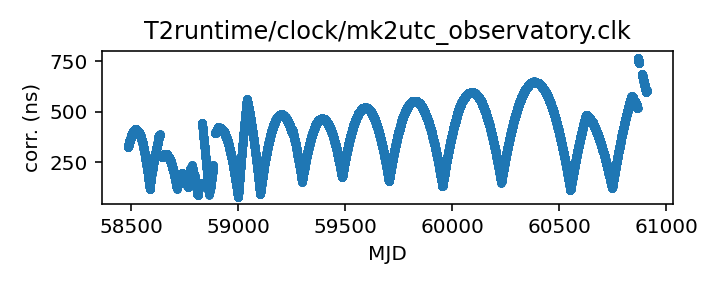
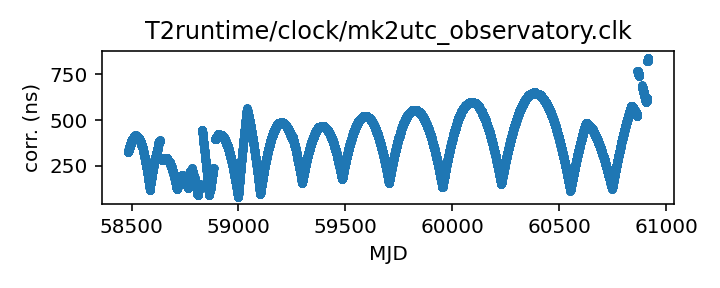
Routine gh-pages update from Github action Mon Sep  8 20:41:05 UTC 2025

diff --git a/status.md b/status.md
@@ -13,18 +13,18 @@ name of each clock file links to a page with more details.
 
 | Name | File | Corrections start | Corrections end | Last check date | Last check result 
 |:--- |:--- | --- | --- | --- |:--- 
-| [GPS to UTC](T2runtime/clock/gps2utc.clk.html) | `T2runtime/clock/gps2utc.clk` | 1993-01-01 MJD 48988.0 | 2025-07-28 MJD 60884.0 | 2025-09-07 | Unchanged 
-| [GPS to UTC (Combined Clock)](T2runtime/clock/gps2utc_cc.clk.html) | `T2runtime/clock/gps2utc_cc.clk` | 1993-01-01 MJD 48988.0 | 2025-07-28 MJD 60884.0 | 2025-09-07 | Unchanged 
-| [GPS to UTC (Corrected)](T2runtime/clock/gps2utc_c0p.clk.html) | `T2runtime/clock/gps2utc_c0p.clk` | 2010-12-29 MJD 55559.0 | 2025-07-28 MJD 60884.0 | 2025-09-07 | Unchanged 
-| [GBT](tempo/clock/time_gbt.dat.html) | `tempo/clock/time_gbt.dat` | 2000-12-31 MJD 51909.5 | 2025-09-06 MJD 60924.5 | 2025-09-07 | Updated 
-| [GBT (TEMPO2 converted from TEMPO)](T2runtime/clock/gbt2gps.clk.html) | `T2runtime/clock/gbt2gps.clk` | 2000-12-31 MJD 51909.5 | 2024-05-18 MJD 60448.5 | 2025-09-07 | **Validation failed** 
-| [Jodrell Bank](T2runtime/clock/jb2gps.clk.html) | `T2runtime/clock/jb2gps.clk` | 2006-10-13 MJD 54021.4 | 2024-11-07 MJD 60621.0 | 2025-09-01 | Unchanged 
-| [Jodrell Bank Roach](T2runtime/clock/jbroach2jb.clk.html) | `T2runtime/clock/jbroach2jb.clk` | 2006-10-13 MJD 54021.4 | 2018-03-20 MJD 58197.6 | 2025-09-01 | Unchanged 
-| [Jodrell Bank DFB](T2runtime/clock/jbdfb2jb.clk.html) | `T2runtime/clock/jbdfb2jb.clk` | 2006-10-13 MJD 54021.4 | 2021-02-22 MJD 59268.0 | 2025-09-01 | Unchanged 
-| [Meerkat (observatory)](T2runtime/clock/mk2utc_observatory.clk.html) | `T2runtime/clock/mk2utc_observatory.clk` | 2019-01-01 MJD 58484.0 | 2025-08-20 MJD 60908.0 | 2025-09-01 | Updated 
-| [Leap seconds](tempo/clock/leap.sec.html) | `tempo/clock/leap.sec` | 1972-07-01 MJD 41499.0 | 2017-01-01 MJD 57754.0 | 2025-09-07 | Unchanged 
-| [UT1 table](tempo/clock/ut1.dat.html) | `tempo/clock/ut1.dat` | 1973-01-02 MJD 41684.0 | 2026-09-12 MJD 61295.0 | 2025-09-07 | Unchanged 
-| [UT1 table](T2runtime/clock/ut1.dat.html) | `T2runtime/clock/ut1.dat` | 1973-01-02 MJD 41684.0 | 2026-09-12 MJD 61295.0 | 2025-09-07 | Unchanged 
+| [GPS to UTC](T2runtime/clock/gps2utc.clk.html) | `T2runtime/clock/gps2utc.clk` | 1993-01-01 MJD 48988.0 | 2025-07-28 MJD 60884.0 | 2025-09-08 | Unchanged 
+| [GPS to UTC (Combined Clock)](T2runtime/clock/gps2utc_cc.clk.html) | `T2runtime/clock/gps2utc_cc.clk` | 1993-01-01 MJD 48988.0 | 2025-07-28 MJD 60884.0 | 2025-09-08 | Unchanged 
+| [GPS to UTC (Corrected)](T2runtime/clock/gps2utc_c0p.clk.html) | `T2runtime/clock/gps2utc_c0p.clk` | 2010-12-29 MJD 55559.0 | 2025-07-28 MJD 60884.0 | 2025-09-08 | Unchanged 
+| [GBT](tempo/clock/time_gbt.dat.html) | `tempo/clock/time_gbt.dat` | 2000-12-31 MJD 51909.5 | 2025-09-07 MJD 60925.5 | 2025-09-08 | Updated 
+| [GBT (TEMPO2 converted from TEMPO)](T2runtime/clock/gbt2gps.clk.html) | `T2runtime/clock/gbt2gps.clk` | 2000-12-31 MJD 51909.5 | 2024-05-18 MJD 60448.5 | 2025-09-08 | **Validation failed** 
+| [Jodrell Bank](T2runtime/clock/jb2gps.clk.html) | `T2runtime/clock/jb2gps.clk` | 2006-10-13 MJD 54021.4 | 2024-11-07 MJD 60621.0 | 2025-09-08 | Unchanged 
+| [Jodrell Bank Roach](T2runtime/clock/jbroach2jb.clk.html) | `T2runtime/clock/jbroach2jb.clk` | 2006-10-13 MJD 54021.4 | 2018-03-20 MJD 58197.6 | 2025-09-08 | Unchanged 
+| [Jodrell Bank DFB](T2runtime/clock/jbdfb2jb.clk.html) | `T2runtime/clock/jbdfb2jb.clk` | 2006-10-13 MJD 54021.4 | 2021-02-22 MJD 59268.0 | 2025-09-08 | Unchanged 
+| [Meerkat (observatory)](T2runtime/clock/mk2utc_observatory.clk.html) | `T2runtime/clock/mk2utc_observatory.clk` | 2019-01-01 MJD 58484.0 | 2025-08-29 MJD 60917.0 | 2025-09-08 | Updated 
+| [Leap seconds](tempo/clock/leap.sec.html) | `tempo/clock/leap.sec` | 1972-07-01 MJD 41499.0 | 2017-01-01 MJD 57754.0 | 2025-09-08 | Unchanged 
+| [UT1 table](tempo/clock/ut1.dat.html) | `tempo/clock/ut1.dat` | 1973-01-02 MJD 41684.0 | 2026-09-12 MJD 61295.0 | 2025-09-08 | Unchanged 
+| [UT1 table](T2runtime/clock/ut1.dat.html) | `T2runtime/clock/ut1.dat` | 1973-01-02 MJD 41684.0 | 2026-09-12 MJD 61295.0 | 2025-09-08 | Unchanged 
 
 
 
@@ -68,26 +68,26 @@ name of each clock file links to a page with more details.
 
 | Name | File | Corrections start | Corrections end | Last check date | Last check result 
 |:--- |:--- | --- | --- | --- |:--- 
-| [GPS to UTC (TEMPO2)](T2runtime/clock/gpst2utc_tempo2.clk.html) | `T2runtime/clock/gpst2utc_tempo2.clk` | 1993-01-01 MJD 48988.0 | 2024-12-30 MJD 60674.0 | 2025-09-01 | Unchanged 
-| [GBT (TEMPO2)](T2runtime/clock/gbt2gps_tempo2.clk.html) | `T2runtime/clock/gbt2gps_tempo2.clk` | 2000-12-31 MJD 51909.5 | 2020-02-25 MJD 58904.5 | 2025-09-01 | Unchanged 
-| [Jodrell Bank (TEMPO)](tempo/clock/time_jb.dat.html) | `tempo/clock/time_jb.dat` | 2006-10-13 MJD 54021.4 | 2019-05-13 MJD 58616.2 | 2025-09-01 | Unchanged 
-| [VLA](tempo/clock/time_vla.dat.html) | `tempo/clock/time_vla.dat` | 1990-10-27 MJD 48191.2 | 2025-02-10 MJD 60716.2 | 2025-09-01 | Unchanged 
-| [VLA (TEMPO2)](T2runtime/clock/vla2gps.clk.html) | `T2runtime/clock/vla2gps.clk` | 2015-02-01 MJD 57054.6 | 2025-02-10 MJD 60716.2 | 2025-09-01 | Unchanged 
-| [VLA to NIST](T2runtime/clock/vla2nist.clk.html) | `T2runtime/clock/vla2nist.clk` | 1990-10-27 MJD 48191.2 | 1993-11-13 MJD 49304.0 | 2025-09-01 | Unchanged 
-| [FAST](tempo/clock/time_fast.dat.html) | `tempo/clock/time_fast.dat` | 2017-07-27 MJD 57961.0 | 2025-08-25 MJD 60913.0 | 2025-09-01 | Updated 
-| [WSRT](T2runtime/clock/wsrt2gps.clk.html) | `T2runtime/clock/wsrt2gps.clk` | 1999-01-01 MJD 51179.5 | 2015-06-29 MJD 57202.1 | 2025-09-01 | Unchanged 
-| [WSRT (TEMPO)](tempo/clock/time_wsrt.dat.html) | `tempo/clock/time_wsrt.dat` | 1987-07-24 MJD 47000.0 | 2007-12-24 MJD 54458.0 | 2025-09-01 | **Validation failed** 
-| [Parkes](T2runtime/clock/pks2gps.clk.html) | `T2runtime/clock/pks2gps.clk` | 1858-11-17 MJD 0.0 | 2025-06-30 MJD 60856.1 | 2025-09-01 | Unchanged 
-| [Parkes (TEMPO)](tempo/clock/time_pks.dat.html) | `tempo/clock/time_pks.dat` | 1979-05-07 MJD 44000.0 | 2011-07-03 MJD 55745.8 | 2025-09-01 | Unchanged 
-| [SRT](T2runtime/clock/srt2gps.clk.html) | `T2runtime/clock/srt2gps.clk` | 2013-03-20 MJD 56371.0 | 2019-12-11 MJD 58828.0 | 2025-09-01 | Unchanged 
-| [Effelsberg](T2runtime/clock/eff2gps.clk.html) | `T2runtime/clock/eff2gps.clk` | 1993-11-29 MJD 49320.0 | 2015-06-22 MJD 57195.5 | 2025-09-01 | Unchanged 
-| [Effelsberg Asterix/PSRix](T2runtime/clock/effix2gps.clk.html) | `T2runtime/clock/effix2gps.clk` | 2011-01-01 MJD 55562.5 | 2021-03-21 MJD 59294.5 | 2025-09-01 | Unchanged 
-| [LEAP](T2runtime/clock/leap2effix.clk.html) | `T2runtime/clock/leap2effix.clk` | 2012-10-29 MJD 56230.0 | 2014-03-04 MJD 56720.0 | 2025-09-01 | Unchanged 
-| [NUPPI](tempo/clock/time_nuppi.dat.html) | `tempo/clock/time_nuppi.dat` | 2005-03-07 MJD 53436.0 | 2015-11-08 MJD 57334.6 | 2025-09-01 | Unchanged 
-| [Meerkat (TEMPO2)](T2runtime/clock/mk2utc.clk.html) | `T2runtime/clock/mk2utc.clk` | 2019-01-01 MJD 58484.0 | 2024-09-23 MJD 60576.9 | 2025-09-01 | **Validation failed** 
-| [MOST](T2runtime/clock/mo2gps.clk.html) | `T2runtime/clock/mo2gps.clk` | 2003-12-27 MJD 53000.0 | 2018-09-06 MJD 58367.0 | 2025-09-01 | Unchanged 
-| [Nancay to obspm](T2runtime/clock/ncyobs2obspm.clk.html) | `T2runtime/clock/ncyobs2obspm.clk` | 1988-05-18 MJD 47299.6 | 2024-12-30 MJD 60674.0 | 2025-09-01 | Unchanged 
-| [obspm](T2runtime/clock/obspm2gps.clk.html) | `T2runtime/clock/obspm2gps.clk` | 2003-12-01 MJD 52974.0 | 2023-10-27 MJD 60244.0 | 2025-09-01 | Unchanged 
+| [GPS to UTC (TEMPO2)](T2runtime/clock/gpst2utc_tempo2.clk.html) | `T2runtime/clock/gpst2utc_tempo2.clk` | 1993-01-01 MJD 48988.0 | 2024-12-30 MJD 60674.0 | 2025-09-08 | Unchanged 
+| [GBT (TEMPO2)](T2runtime/clock/gbt2gps_tempo2.clk.html) | `T2runtime/clock/gbt2gps_tempo2.clk` | 2000-12-31 MJD 51909.5 | 2020-02-25 MJD 58904.5 | 2025-09-08 | Unchanged 
+| [Jodrell Bank (TEMPO)](tempo/clock/time_jb.dat.html) | `tempo/clock/time_jb.dat` | 2006-10-13 MJD 54021.4 | 2019-05-13 MJD 58616.2 | 2025-09-08 | Unchanged 
+| [VLA](tempo/clock/time_vla.dat.html) | `tempo/clock/time_vla.dat` | 1990-10-27 MJD 48191.2 | 2025-02-10 MJD 60716.2 | 2025-09-08 | Unchanged 
+| [VLA (TEMPO2)](T2runtime/clock/vla2gps.clk.html) | `T2runtime/clock/vla2gps.clk` | 2015-02-01 MJD 57054.6 | 2025-02-10 MJD 60716.2 | 2025-09-08 | Unchanged 
+| [VLA to NIST](T2runtime/clock/vla2nist.clk.html) | `T2runtime/clock/vla2nist.clk` | 1990-10-27 MJD 48191.2 | 1993-11-13 MJD 49304.0 | 2025-09-08 | Unchanged 
+| [FAST](tempo/clock/time_fast.dat.html) | `tempo/clock/time_fast.dat` | 2017-07-27 MJD 57961.0 | 2025-08-25 MJD 60913.0 | 2025-09-08 | Unchanged 
+| [WSRT](T2runtime/clock/wsrt2gps.clk.html) | `T2runtime/clock/wsrt2gps.clk` | 1999-01-01 MJD 51179.5 | 2015-06-29 MJD 57202.1 | 2025-09-08 | Unchanged 
+| [WSRT (TEMPO)](tempo/clock/time_wsrt.dat.html) | `tempo/clock/time_wsrt.dat` | 1987-07-24 MJD 47000.0 | 2007-12-24 MJD 54458.0 | 2025-09-08 | **Validation failed** 
+| [Parkes](T2runtime/clock/pks2gps.clk.html) | `T2runtime/clock/pks2gps.clk` | 1858-11-17 MJD 0.0 | 2025-06-30 MJD 60856.1 | 2025-09-08 | Unchanged 
+| [Parkes (TEMPO)](tempo/clock/time_pks.dat.html) | `tempo/clock/time_pks.dat` | 1979-05-07 MJD 44000.0 | 2011-07-03 MJD 55745.8 | 2025-09-08 | Unchanged 
+| [SRT](T2runtime/clock/srt2gps.clk.html) | `T2runtime/clock/srt2gps.clk` | 2013-03-20 MJD 56371.0 | 2019-12-11 MJD 58828.0 | 2025-09-08 | Unchanged 
+| [Effelsberg](T2runtime/clock/eff2gps.clk.html) | `T2runtime/clock/eff2gps.clk` | 1993-11-29 MJD 49320.0 | 2015-06-22 MJD 57195.5 | 2025-09-08 | Unchanged 
+| [Effelsberg Asterix/PSRix](T2runtime/clock/effix2gps.clk.html) | `T2runtime/clock/effix2gps.clk` | 2011-01-01 MJD 55562.5 | 2021-03-21 MJD 59294.5 | 2025-09-08 | Unchanged 
+| [LEAP](T2runtime/clock/leap2effix.clk.html) | `T2runtime/clock/leap2effix.clk` | 2012-10-29 MJD 56230.0 | 2014-03-04 MJD 56720.0 | 2025-09-08 | Unchanged 
+| [NUPPI](tempo/clock/time_nuppi.dat.html) | `tempo/clock/time_nuppi.dat` | 2005-03-07 MJD 53436.0 | 2015-11-08 MJD 57334.6 | 2025-09-08 | Unchanged 
+| [Meerkat (TEMPO2)](T2runtime/clock/mk2utc.clk.html) | `T2runtime/clock/mk2utc.clk` | 2019-01-01 MJD 58484.0 | 2024-09-23 MJD 60576.9 | 2025-09-08 | **Validation failed** 
+| [MOST](T2runtime/clock/mo2gps.clk.html) | `T2runtime/clock/mo2gps.clk` | 2003-12-27 MJD 53000.0 | 2018-09-06 MJD 58367.0 | 2025-09-08 | Unchanged 
+| [Nancay to obspm](T2runtime/clock/ncyobs2obspm.clk.html) | `T2runtime/clock/ncyobs2obspm.clk` | 1988-05-18 MJD 47299.6 | 2024-12-30 MJD 60674.0 | 2025-09-08 | Unchanged 
+| [obspm](T2runtime/clock/obspm2gps.clk.html) | `T2runtime/clock/obspm2gps.clk` | 2003-12-01 MJD 52974.0 | 2023-10-27 MJD 60244.0 | 2025-09-08 | Unchanged 
 
 
 ### Further information:

diff --git a/T2runtime/clock/gbt2gps.clk.md b/T2runtime/clock/gbt2gps.clk.md
@@ -25,12 +25,11 @@ If questions arise about the conversion, contact Anne Archibald
 | Clock file start | 2000-12-31 MJD 51909.5 |
 | Clock file end | 2024-05-18 MJD 60448.5 |
 | Update interval (days) | 1 |
-| Last update attempt | 2025-09-07 |
+| Last update attempt | 2025-09-08 |
 | Last update result | Validation failed |
 
 Log entries from the last few update attempts:
 ```
-2025-08-29 20:38:42.736 - Validation failed: New version of T2runtime/clock/gbt2gps.clk MJDs differ from old version where they overlap in 8407 places
 2025-08-30 20:37:07.543 - Validation failed: New version of T2runtime/clock/gbt2gps.clk MJDs differ from old version where they overlap in 8407 places
 2025-08-31 20:38:03.864 - Validation failed: New version of T2runtime/clock/gbt2gps.clk MJDs differ from old version where they overlap in 8407 places
 2025-09-01 20:38:16.249 - Validation failed: New version of T2runtime/clock/gbt2gps.clk MJDs differ from old version where they overlap in 8407 places
@@ -40,6 +39,7 @@ Log entries from the last few update attempts:
 2025-09-05 20:39:54.639 - Validation failed: New version of T2runtime/clock/gbt2gps.clk MJDs differ from old version where they overlap in 8407 places
 2025-09-06 20:34:58.186 - Validation failed: New version of T2runtime/clock/gbt2gps.clk MJDs differ from old version where they overlap in 8407 places
 2025-09-07 20:35:51.326 - Validation failed: New version of T2runtime/clock/gbt2gps.clk MJDs differ from old version where they overlap in 8407 places
+2025-09-08 20:40:26.109 - Validation failed: New version of T2runtime/clock/gbt2gps.clk MJDs differ from old version where they overlap in 8407 places
 ```
 [Full log](https://raw.githubusercontent.com/ipta/pulsar-clock-corrections/main/log/T2runtime/clock/gbt2gps.clk.log)
 

diff --git a/T2runtime/clock/mk2utc.clk.md b/T2runtime/clock/mk2utc.clk.md
@@ -17,12 +17,11 @@ up-to-date.
 | Clock file start | 2019-01-01 MJD 58484.0 |
 | Clock file end | 2024-09-23 MJD 60576.9 |
 | Update interval (days) | 7 |
-| Last update attempt | 2025-09-01 |
+| Last update attempt | 2025-09-08 |
 | Last update result | Validation failed |
 
 Log entries from the last few update attempts:
 ```
-2025-06-30 20:43:41.583 - Validation failed: New version of T2runtime/clock/mk2utc.clk MJDs differ from old version where they overlap in 8252 places
 2025-07-07 20:44:48.573 - Validation failed: New version of T2runtime/clock/mk2utc.clk MJDs differ from old version where they overlap in 8252 places
 2025-07-14 20:45:04.104 - Validation failed: New version of T2runtime/clock/mk2utc.clk MJDs differ from old version where they overlap in 8252 places
 2025-07-21 20:45:52.104 - Validation failed: New version of T2runtime/clock/mk2utc.clk MJDs differ from old version where they overlap in 8252 places
@@ -32,6 +31,7 @@ Log entries from the last few update attempts:
 2025-08-18 20:41:43.006 - Validation failed: New version of T2runtime/clock/mk2utc.clk MJDs differ from old version where they overlap in 8252 places
 2025-08-25 20:42:36.637 - Validation failed: New version of T2runtime/clock/mk2utc.clk MJDs differ from old version where they overlap in 8252 places
 2025-09-01 20:38:36.267 - Validation failed: New version of T2runtime/clock/mk2utc.clk MJDs differ from old version where they overlap in 8252 places
+2025-09-08 20:40:40.602 - Validation failed: New version of T2runtime/clock/mk2utc.clk MJDs differ from old version where they overlap in 8252 places
 ```
 [Full log](https://raw.githubusercontent.com/ipta/pulsar-clock-corrections/main/log/T2runtime/clock/mk2utc.clk.log)
 

diff --git a/tempo/clock/time_wsrt.dat.md b/tempo/clock/time_wsrt.dat.md
@@ -20,12 +20,11 @@ should be the same information.
 | Clock file start | 1987-07-24 MJD 47000.0 |
 | Clock file end | 2007-12-24 MJD 54458.0 |
 | Update interval (days) | 7 |
-| Last update attempt | 2025-09-01 |
+| Last update attempt | 2025-09-08 |
 | Last update result | Validation failed |
 
 Log entries from the last few update attempts:
 ```
-2025-06-30 20:43:31.128 - Validation failed: New version of tempo/clock/time_wsrt.dat MJDs differ from old version where they overlap in 5 places
 2025-07-07 20:44:30.438 - Validation failed: New version of tempo/clock/time_wsrt.dat MJDs differ from old version where they overlap in 5 places
 2025-07-14 20:44:50.714 - Validation failed: New version of tempo/clock/time_wsrt.dat MJDs differ from old version where they overlap in 5 places
 2025-07-21 20:45:22.516 - Validation failed: New version of tempo/clock/time_wsrt.dat MJDs differ from old version where they overlap in 5 places
@@ -35,6 +34,7 @@ Log entries from the last few update attempts:
 2025-08-18 20:41:31.066 - Validation failed: New version of tempo/clock/time_wsrt.dat MJDs differ from old version where they overlap in 5 places
 2025-08-25 20:42:24.255 - Validation failed: New version of tempo/clock/time_wsrt.dat MJDs differ from old version where they overlap in 5 places
 2025-09-01 20:38:23.095 - Validation failed: New version of tempo/clock/time_wsrt.dat MJDs differ from old version where they overlap in 5 places
+2025-09-08 20:40:29.445 - Validation failed: New version of tempo/clock/time_wsrt.dat MJDs differ from old version where they overlap in 5 places
 ```
 [Full log](https://raw.githubusercontent.com/ipta/pulsar-clock-corrections/main/log/tempo/clock/time_wsrt.dat.log)
 

diff --git a/T2runtime/clock/mk2utc_observatory.clk.md b/T2runtime/clock/mk2utc_observatory.clk.md
@@ -19,14 +19,13 @@ If questions arise, contact Ryan Shannon <rshannon@swin.edu.au>
 | Format | tempo2 |
 | Bogus last correction | False |
 | Clock file start | 2019-01-01 MJD 58484.0 |
-| Clock file end | 2025-08-20 MJD 60908.0 |
+| Clock file end | 2025-08-29 MJD 60917.0 |
 | Update interval (days) | 7 |
-| Last update attempt | 2025-09-01 |
+| Last update attempt | 2025-09-08 |
 | Last update result | Updated |
 
 Log entries from the last few update attempts:
 ```
-2025-06-30 20:43:39.919 - Unchanged
 2025-07-07 20:44:46.829 - Failed to download: <urlopen error _ssl.c:999: The handshake operation timed out>
 2025-07-14 20:45:02.678 - Unchanged
 2025-07-21 20:45:50.761 - Unchanged
@@ -36,6 +35,7 @@ Log entries from the last few update attempts:
 2025-08-18 20:41:41.526 - Unchanged
 2025-08-25 20:42:34.702 - Unchanged
 2025-09-01 20:38:34.421 - Updated
+2025-09-08 20:40:39.300 - Updated
 ```
 [Full log](https://raw.githubusercontent.com/ipta/pulsar-clock-corrections/main/log/T2runtime/clock/mk2utc_observatory.clk.log)
 
@@ -44,7 +44,7 @@ Leading comments from clock file:
     # Tie of Karoo Telescope Time to UTC
     # This file is from the KTT-GNSS sensor, and does not include circular-T
     # MJD = (SensorTime(us)/86400e6)+40587    15-minute snapshots
-    # Created at unix time 1756723852.831484 from KTT mySQL database.
+    # Created at unix time 1756963050.582103 from KTT mySQL database.
     #
     # MJD (days)   KTT-UTC (seconds)
     #------------------------------------------------------

diff --git a/tempo/clock/time_gbt.dat.md b/tempo/clock/time_gbt.dat.md
@@ -36,14 +36,13 @@ If questions arise, contact Ryan S. Lynch <rlynch@nrao.edu>.
 | Format | tempo |
 | Bogus last correction | False |
 | Clock file start | 2000-12-31 MJD 51909.5 |
-| Clock file end | 2025-09-06 MJD 60924.5 |
+| Clock file end | 2025-09-07 MJD 60925.5 |
 | Update interval (days) | 1 |
-| Last update attempt | 2025-09-07 |
+| Last update attempt | 2025-09-08 |
 | Last update result | Updated |
 
 Log entries from the last few update attempts:
 ```
-2025-08-29 20:38:42.675 - Updated
 2025-08-30 20:37:07.483 - Updated
 2025-08-31 20:38:03.802 - Updated
 2025-09-01 20:38:15.613 - Updated
@@ -53,12 +52,13 @@ Log entries from the last few update attempts:
 2025-09-05 20:39:54.578 - Updated
 2025-09-06 20:34:58.126 - Updated
 2025-09-07 20:35:51.264 - Updated
+2025-09-08 20:40:25.802 - Updated
 ```
 [Full log](https://raw.githubusercontent.com/ipta/pulsar-clock-corrections/main/log/tempo/clock/time_gbt.dat.log)
 
 Leading comments from clock file:
 
-     -2271.50       0.0        -0.486 1    32765-dec
+     -2271.50       0.0        -0.486 1    32766-dec
 
 
 

diff --git a/tempo/clock/time_pks.dat.md b/tempo/clock/time_pks.dat.md
@@ -20,12 +20,11 @@ telescopes in the same file, distinguished only by observatory code.
 | Clock file start | 1979-05-07 MJD 44000.0 |
 | Clock file end | 2011-07-03 MJD 55745.8 |
 | Update interval (days) | 7 |
-| Last update attempt | 2025-09-01 |
+| Last update attempt | 2025-09-08 |
 | Last update result | Unchanged |
 
 Log entries from the last few update attempts:
 ```
-2025-06-30 20:43:34.826 - Unchanged
 2025-07-07 20:44:34.087 - Unchanged
 2025-07-14 20:44:55.018 - Unchanged
 2025-07-21 20:45:36.983 - Failed to download: The read operation timed out
@@ -35,6 +34,7 @@ Log entries from the last few update attempts:
 2025-08-18 20:41:36.496 - Unchanged
 2025-08-25 20:42:27.890 - Unchanged
 2025-09-01 20:38:27.261 - Unchanged
+2025-09-08 20:40:34.787 - Unchanged
 ```
 [Full log](https://raw.githubusercontent.com/ipta/pulsar-clock-corrections/main/log/tempo/clock/time_pks.dat.log)
 

diff --git a/tempo/clock/time_fast.dat.md b/tempo/clock/time_fast.dat.md
@@ -16,12 +16,11 @@ This file is pulled from the FAST_ClockFile repository.
 | Clock file start | 2017-07-27 MJD 57961.0 |
 | Clock file end | 2025-08-25 MJD 60913.0 |
 | Update interval (days) | 7 |
-| Last update attempt | 2025-09-01 |
-| Last update result | Updated |
+| Last update attempt | 2025-09-08 |
+| Last update result | Unchanged |
 
 Log entries from the last few update attempts:
 ```
-2025-06-30 20:43:30.435 - Updated
 2025-07-07 20:44:29.278 - Updated
 2025-07-14 20:44:50.198 - Updated
 2025-07-21 20:45:21.770 - Updated
@@ -31,6 +30,7 @@ Log entries from the last few update attempts:
 2025-08-18 20:41:30.519 - Updated
 2025-08-25 20:42:23.417 - Updated
 2025-09-01 20:38:22.263 - Updated
+2025-09-08 20:40:28.888 - Unchanged
 ```
 [Full log](https://raw.githubusercontent.com/ipta/pulsar-clock-corrections/main/log/tempo/clock/time_fast.dat.log)
 

diff --git a/T2runtime/clock/gps2utc_c0p.clk.md b/T2runtime/clock/gps2utc_c0p.clk.md
@@ -30,12 +30,11 @@ about the BIPM's published corrections, contact <tai@bipm.org>.
 | Clock file start | 2010-12-29 MJD 55559.0 |
 | Clock file end | 2025-07-28 MJD 60884.0 |
 | Update interval (days) | 1 |
-| Last update attempt | 2025-09-07 |
+| Last update attempt | 2025-09-08 |
 | Last update result | Unchanged |
 
 Log entries from the last few update attempts:
 ```
-2025-08-29 20:38:42.426 - Unchanged
 2025-08-30 20:37:07.013 - Unchanged
 2025-08-31 20:38:03.522 - Unchanged
 2025-09-01 20:38:14.514 - Unchanged
@@ -45,6 +44,7 @@ Log entries from the last few update attempts:
 2025-09-05 20:39:53.607 - Unchanged
 2025-09-06 20:34:57.815 - Unchanged
 2025-09-07 20:35:50.916 - Unchanged
+2025-09-08 20:40:25.316 - Unchanged
 ```
 [Full log](https://raw.githubusercontent.com/ipta/pulsar-clock-corrections/main/log/T2runtime/clock/gps2utc_c0p.clk.log)
 

diff --git a/T2runtime/clock/gps2utc_cc.clk.md b/T2runtime/clock/gps2utc_cc.clk.md
@@ -29,12 +29,11 @@ about the BIPM's published corrections, contact <tai@bipm.org>.
 | Clock file start | 1993-01-01 MJD 48988.0 |
 | Clock file end | 2025-07-28 MJD 60884.0 |
 | Update interval (days) | 1 |
-| Last update attempt | 2025-09-07 |
+| Last update attempt | 2025-09-08 |
 | Last update result | Unchanged |
 
 Log entries from the last few update attempts:
 ```
-2025-08-29 20:38:42.418 - Unchanged
 2025-08-30 20:37:07.005 - Unchanged
 2025-08-31 20:38:03.514 - Unchanged
 2025-09-01 20:38:14.507 - Unchanged
@@ -44,6 +43,7 @@ Log entries from the last few update attempts:
 2025-09-05 20:39:53.599 - Unchanged
 2025-09-06 20:34:57.807 - Unchanged
 2025-09-07 20:35:50.908 - Unchanged
+2025-09-08 20:40:25.308 - Unchanged
 ```
 [Full log](https://raw.githubusercontent.com/ipta/pulsar-clock-corrections/main/log/T2runtime/clock/gps2utc_cc.clk.log)
 

diff --git a/T2runtime/clock/gps2utc.clk.md b/T2runtime/clock/gps2utc.clk.md
@@ -32,12 +32,11 @@ about the BIPM's published corrections, contact <tai@bipm.org>.
 | Clock file start | 1993-01-01 MJD 48988.0 |
 | Clock file end | 2025-07-28 MJD 60884.0 |
 | Update interval (days) | 1 |
-| Last update attempt | 2025-09-07 |
+| Last update attempt | 2025-09-08 |
 | Last update result | Unchanged |
 
 Log entries from the last few update attempts:
 ```
-2025-08-29 20:38:42.396 - Unchanged
 2025-08-30 20:37:06.983 - Unchanged
 2025-08-31 20:38:03.491 - Unchanged
 2025-09-01 20:38:14.485 - Unchanged
@@ -47,6 +46,7 @@ Log entries from the last few update attempts:
 2025-09-05 20:39:53.577 - Unchanged
 2025-09-06 20:34:57.785 - Unchanged
 2025-09-07 20:35:50.886 - Unchanged
+2025-09-08 20:40:25.286 - Unchanged
 ```
 [Full log](https://raw.githubusercontent.com/ipta/pulsar-clock-corrections/main/log/T2runtime/clock/gps2utc.clk.log)
 

diff --git a/T2runtime/clock/ncyobs2obspm.clk.md b/T2runtime/clock/ncyobs2obspm.clk.md
@@ -22,12 +22,11 @@ thus here) can be expected to be somewhat up to date.
 | Clock file start | 1988-05-18 MJD 47299.6 |
 | Clock file end | 2024-12-30 MJD 60674.0 |
 | Update interval (days) | 7 |
-| Last update attempt | 2025-09-01 |
+| Last update attempt | 2025-09-08 |
 | Last update result | Unchanged |
 
 Log entries from the last few update attempts:
 ```
-2025-06-30 20:43:42.487 - Unchanged
 2025-07-07 20:44:49.471 - Unchanged
 2025-07-14 20:45:04.607 - Unchanged
 2025-07-21 20:45:52.424 - Unchanged
@@ -37,6 +36,7 @@ Log entries from the last few update attempts:
 2025-08-18 20:41:43.634 - Unchanged
 2025-08-25 20:42:37.849 - Unchanged
 2025-09-01 20:38:37.309 - Unchanged
+2025-09-08 20:40:40.929 - Unchanged
 ```
 [Full log](https://raw.githubusercontent.com/ipta/pulsar-clock-corrections/main/log/T2runtime/clock/ncyobs2obspm.clk.log)
 
